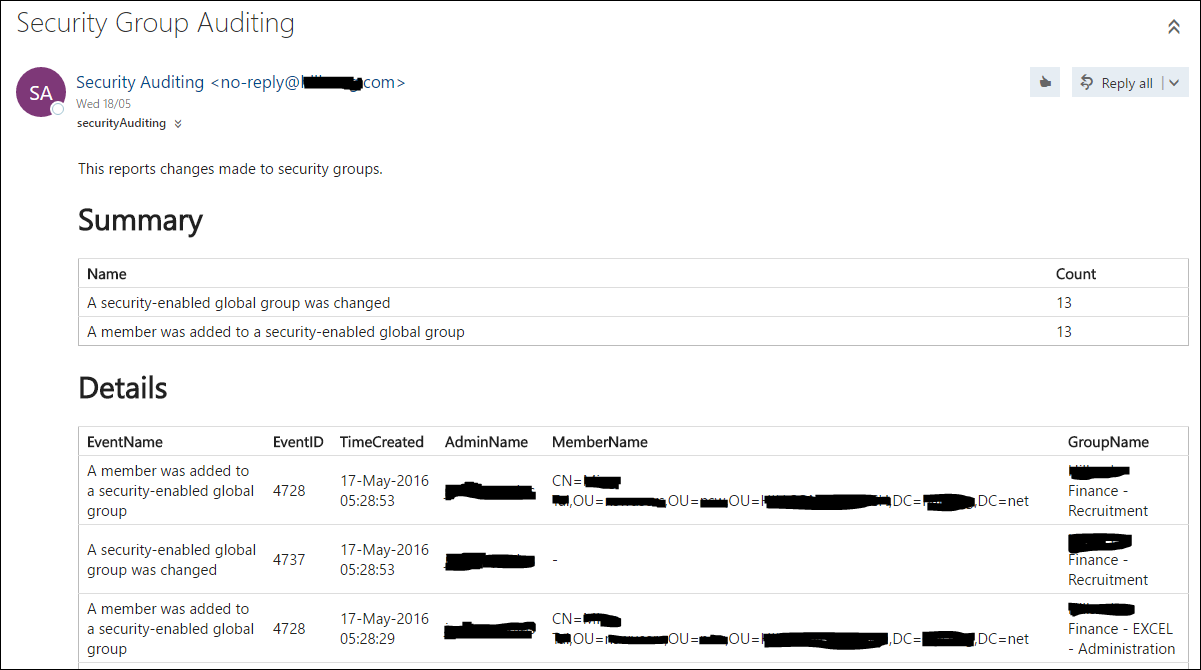
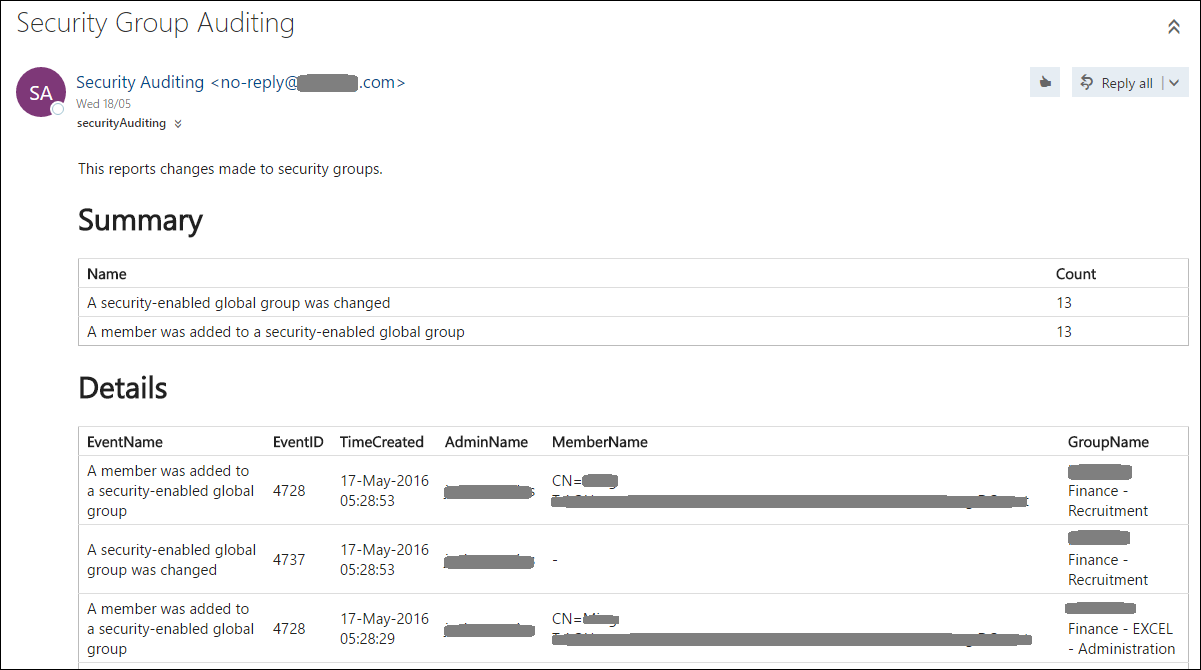
changes

diff --git a/_posts/2016-05-22-SecurityGroup-Auditing.md b/_posts/2016-05-22-SecurityGroup-Auditing.md
@@ -6,5 +6,15 @@ date: 2016-05-22
 
 In this script we will query all of our domain controllers for security events in the security log.
 
-![screen shot of result email](../img/gsga.png)
+## Prerequisites
+* You need permissions to do PowerShell remoting, and query your domain controller event logs
+* You need to turn on appropriate event log autditing for your domain controllers.
+* If you want to send the output through email, you also need an smtp server.
+
+## Script Output
+This script produces an HTML email.
+
+![screen shot of result email](../img/gsga-small.png)
+
+## The Code
 See the full <a href="https://github.com/ajhstn/ajhstn.github.io/blob/master/ps/Get-SecurityGroupAuditing.ps">code</a> on GitHub.
